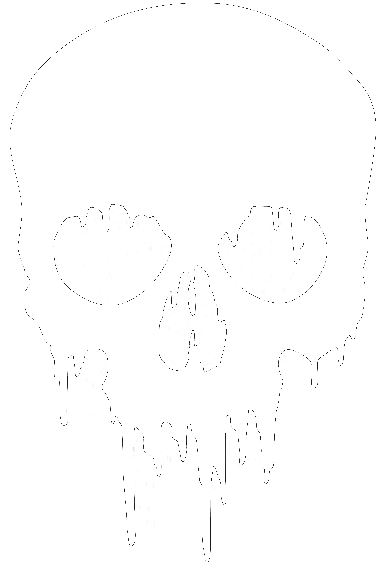
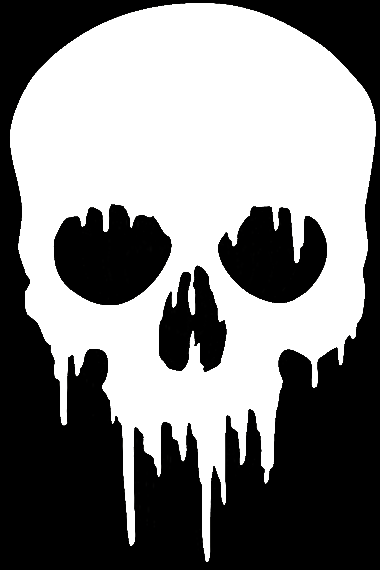
kill the lights

diff --git a/style/sheet.css b/style/sheet.css
@@ -17,8 +17,7 @@ for application of global styles, for indivdual styles see extra.css */
 /* Set Global Body Style */
 body {
 	font-family: "Chomsky", arial, san-serif;
-	background-image: url('https://blackwall72.github.io/style/skull.png') 380px 570px center no-repeat 0 0 relative;
-	background-color: #000000;
+	background-image: url('https://blackwall72.github.io/style/skull.png') relative center no-repeat;
 	color: #F10F0F;
 }
 /* End Global Body */
